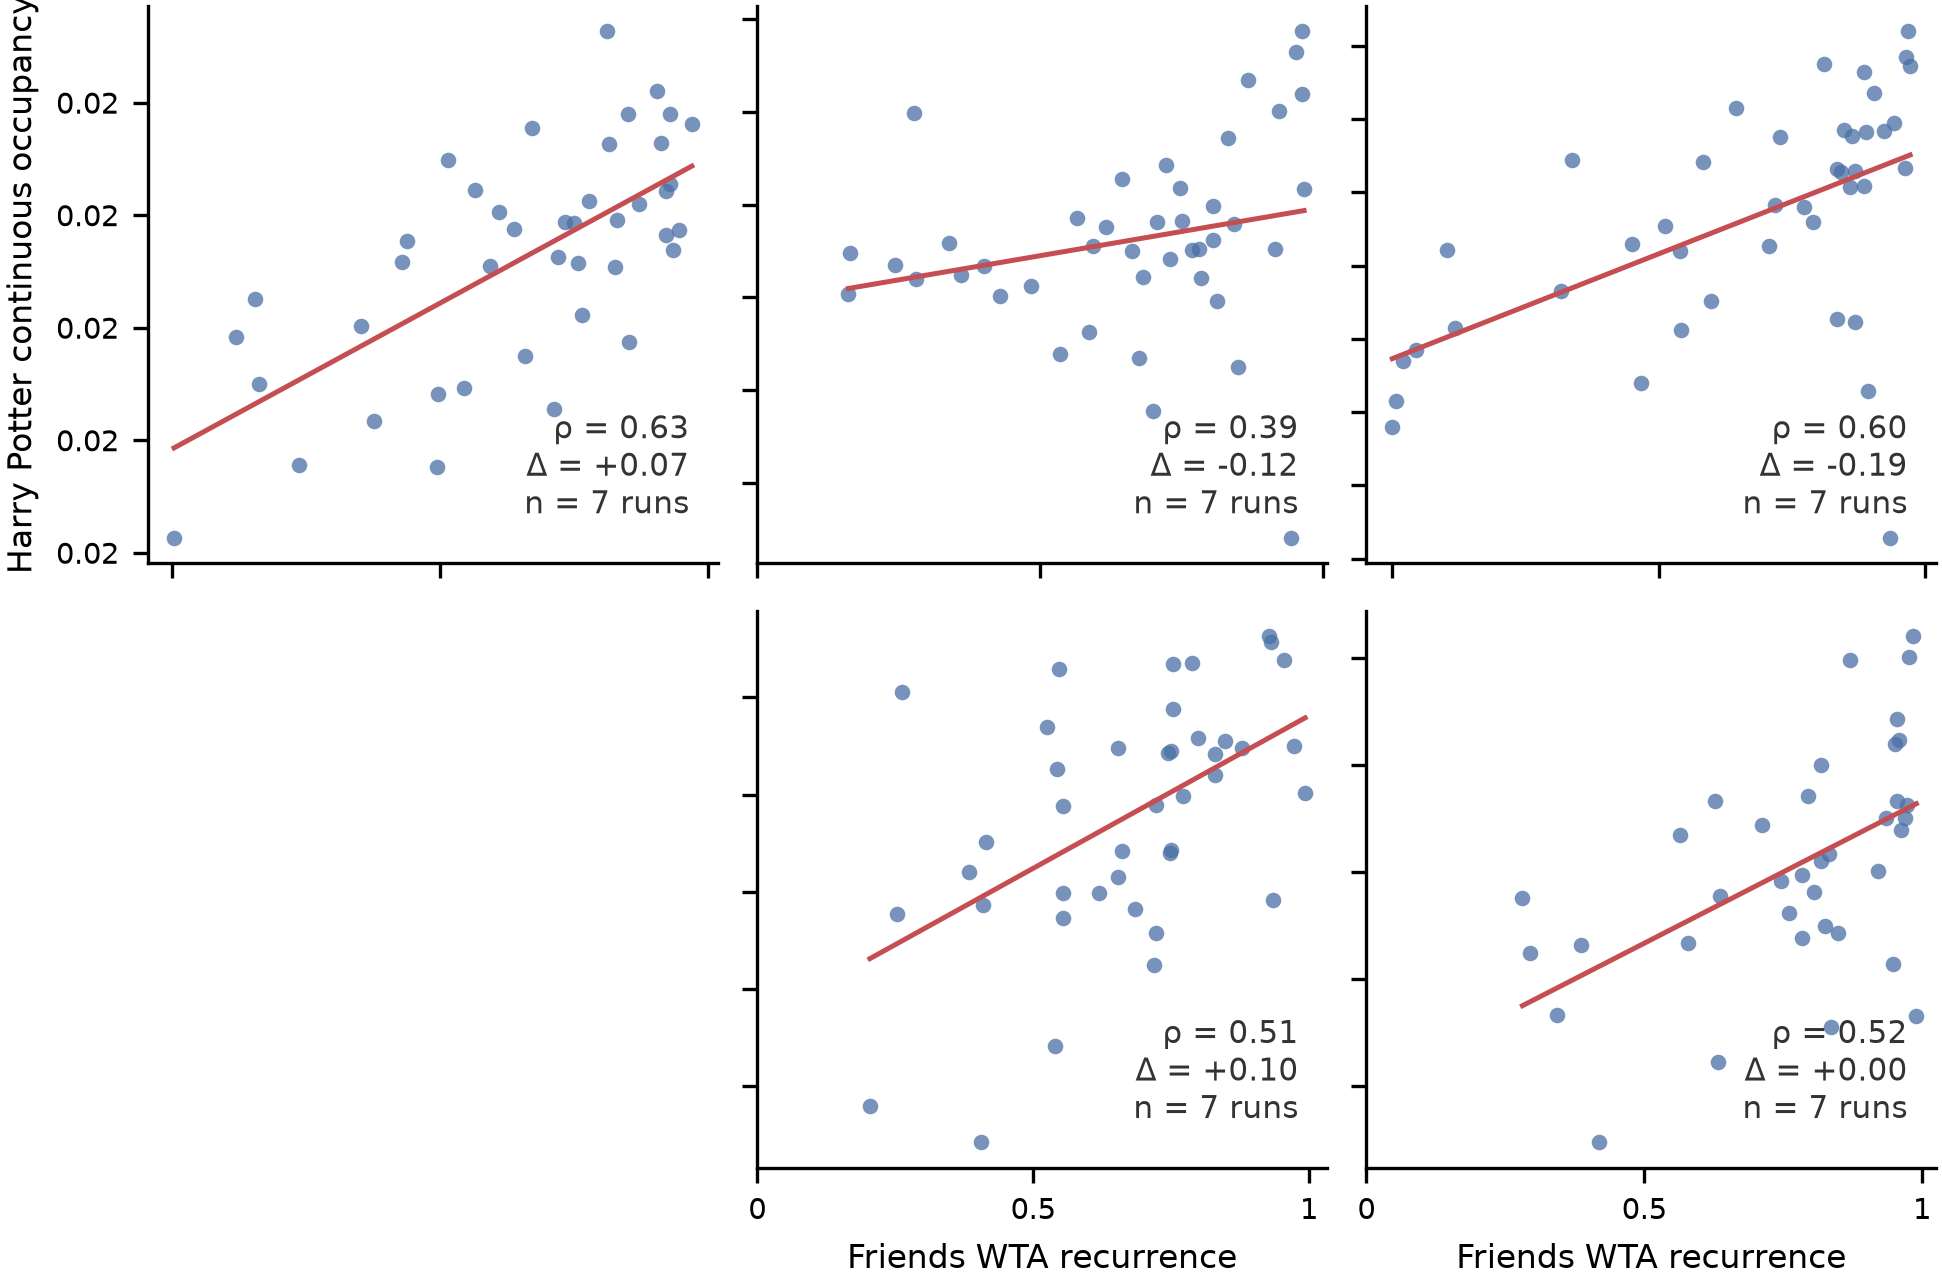
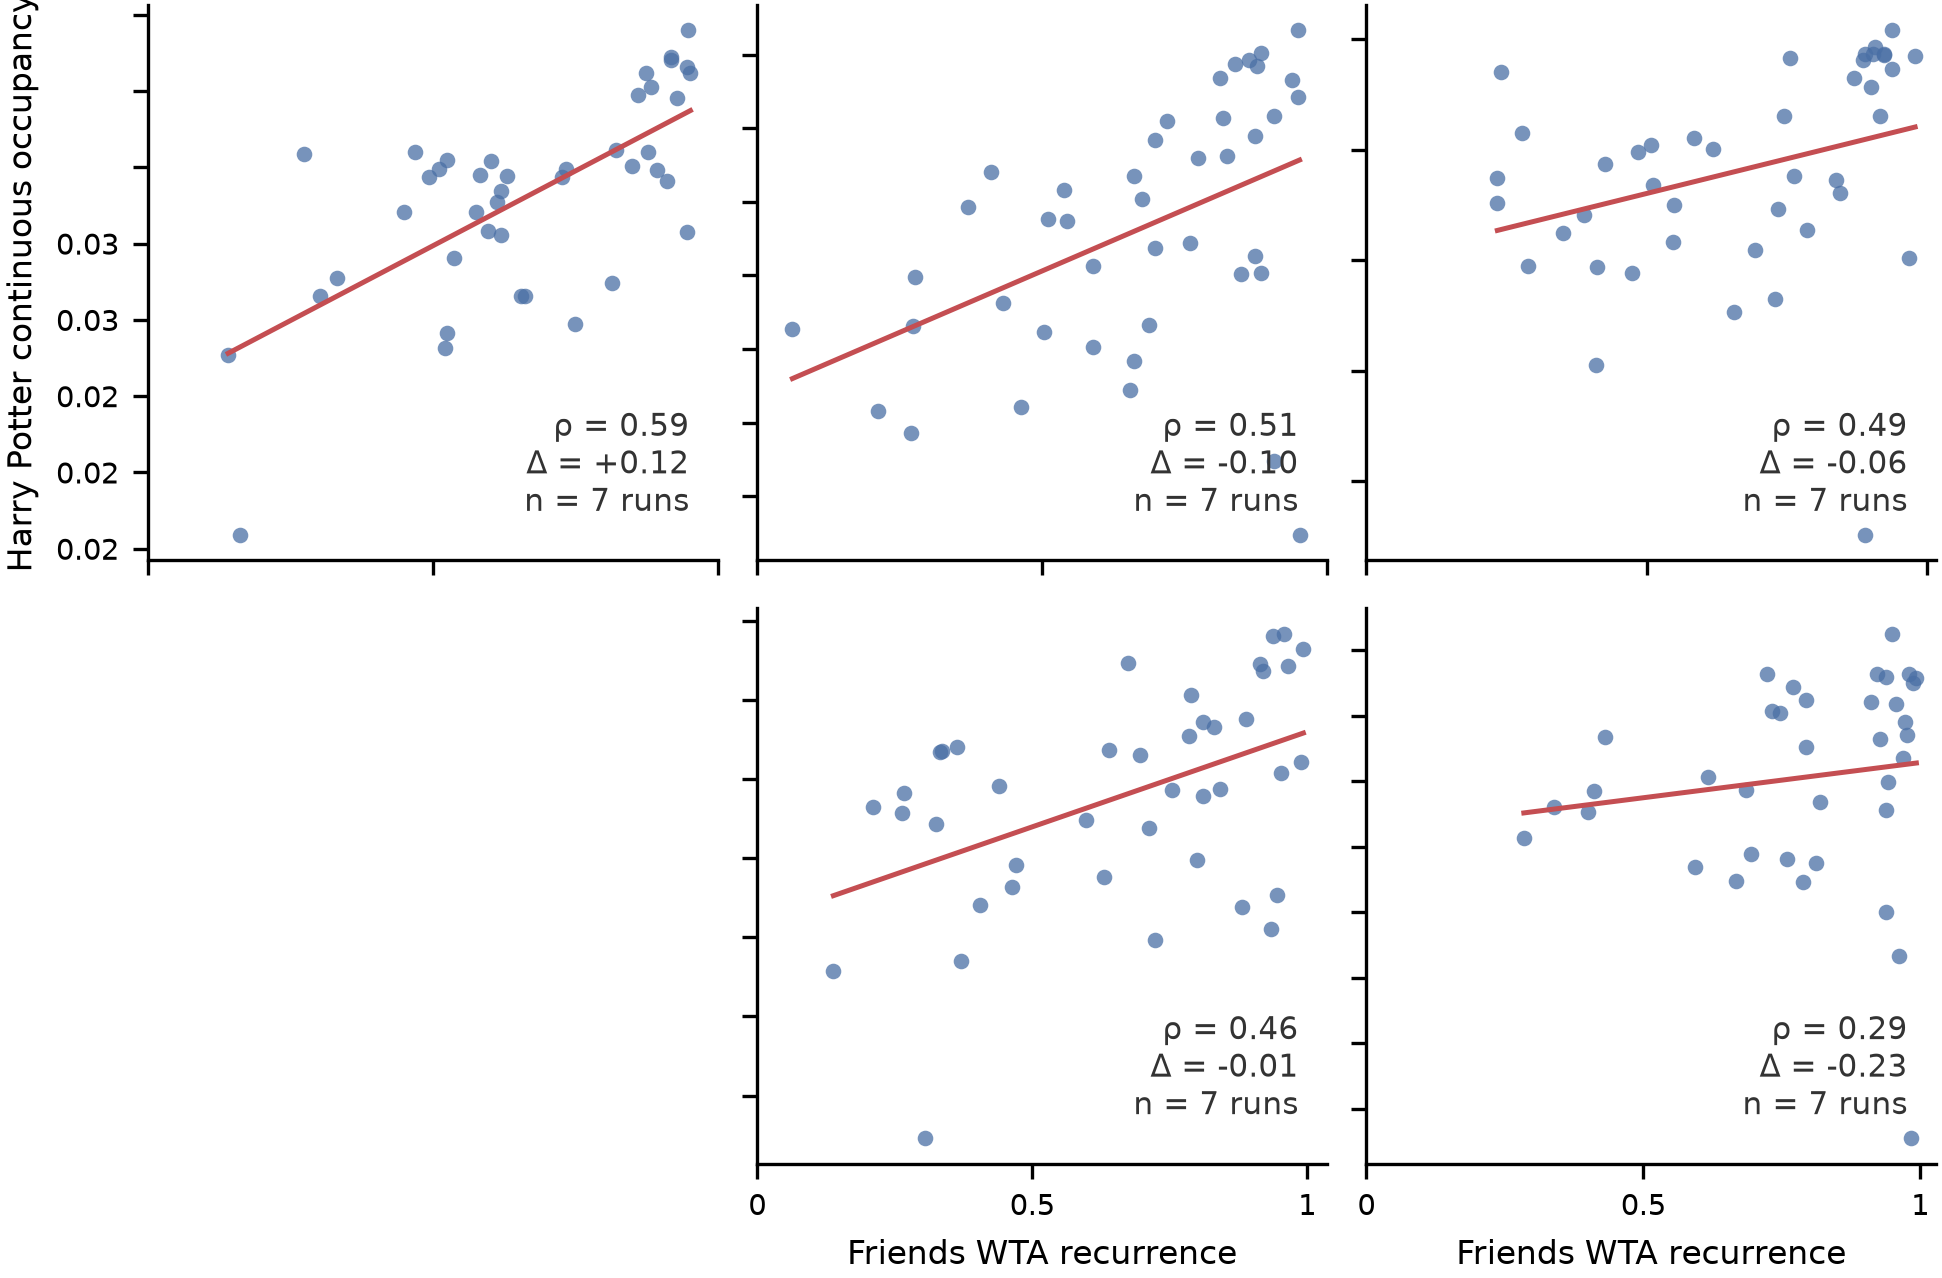
docs(si): S10 and S12 from the top-K ICA analysis
Figure S10 now shows how far ICA's matched spatial correlation exceeds random
rotations of the same top-K PC subspace, and its caption reports convergence
at every K with focal ICA components accounting for the near-zero matches.
Figure S12 panels are re-rendered from the OOS recurrence through the top-K
maps, and the caption's ICA recurrence range and continuous-arm sentence are
updated. The S10 Panel B alt text now describes ICA-HMM matches.

diff --git a/docs/supplementary/README.md b/docs/supplementary/README.md
@@ -159,14 +159,14 @@ This assembled strip summarizes subject-level variation across multiple analyses
 ## Figure S10 — ICA convergence diagnostics
 
 **Panel A — K-sweep heatmap**
-![Heatmap of ICA convergence metrics across component counts (K) tested in the sweep](figures/S10_ica_convergence_A.png)
+![Heatmap of how far ICA–HMM spatial matches exceed the rotation null, per subject and ICA component count K, with surviving pair counts](figures/S10_ica_convergence_A.png)
 
 **Panel B — Per-state matched absolute correlation**
-![Absolute correlation between matched ICA components across repeated runs, shown per state](figures/S10_ica_convergence_B.png)
+![Absolute spatial correlation between each HMM state-mean map and its matched ICA map, per subject, with the per-subject median and rotation-null mean](figures/S10_ica_convergence_B.png)
 
-These panels test how far an alternative decomposition with different assumptions recovers the HMM state-mean maps. That alternative is independent component analysis (ICA), which maximizes spatial independence and imposes no temporal model. Panel A shows the fraction of FDR-surviving spatially matched ICA–HMM pairs (content-eligible states) across six subjects as a function of the number of ICA components K. Per-pair significance is tested against a **subspace-rotation null**: random orthonormal K-frames drawn in the same whitened vt = 0.95 subspace, with Hungarian matching re-run per draw (1,000 draws, BH-FDR corrected). Panel B shows the per-state matched absolute correlation (|r|) between ICA consensus maps and HMM state-mean maps at each subject's K_used, with states coloured by HMM taxonomy category. Detailed numerical results are in the findings document on the `supplements` branch (linked in the catalogue table above).
+These panels test how far an alternative decomposition with different assumptions recovers the HMM state-mean maps. That alternative is independent component analysis (ICA), which maximizes spatial independence and imposes no temporal model. At each dimensionality K, ICA is fit within the subspace of the top K principal components. Per-pair significance is tested against a **subspace-rotation null**: random rotations of the same top-K basis, with Hungarian matching re-run per draw (1,000 draws, BH-FDR corrected). Panel A shows, for content-eligible states, how far the median matched absolute correlation (|r|) exceeds the null mean, with the number of FDR-surviving pairs in each cell, for six subjects and each K. Panel B shows the per-state matched |r| at each subject's K_used (the fitted model's occupied-state count, 37–42), coloured by HMM taxonomy category, with the per-subject median (solid) and null mean (dashed). Detailed numerical results are in the findings document on the `supplements` branch (linked in the catalogue table above).
 
-These panels concern the shared subspace rather than individual state maps. Spatial convergence depends on granularity: it sits at or near the rotation null for coarse, HMM-independent decompositions (K = 15 is null in all six subjects, K = 25 in four of six) and emerges only as the ICA dimensionality approaches each subject's K_used (the fitted model's occupied-state count, 37–42), varying substantially across subjects. A random orthonormal rotation of the same PCA subspace already matches the HMM state-mean maps about as well as ICA's independence-maximizing rotation, so only the agreement exceeding that null is informative. Matches to low-confidence, unused, or rare states indicate that those states' mean maps are recoverable within the shared subspace. They are not independent biological or content validation.
+Most of the agreement between the two decompositions comes from the subspace they share: HMM state means lie almost entirely in the leading principal components, so even random rotations of that subspace match them well. Beyond that, ICA's rotation exceeds the null in every subject at every K, including K = 15, which is chosen independently of the HMM. The excess is +0.02 to +0.12 in median |r| and does not grow as K approaches the HMM's state count. At K_used, 7–11 ICA components per subject are focal, near-single-parcel sources with no HMM counterpart. These produce the near-zero matches in Panel B, while every HMM state has some ICA map with |r| ≥ 0.30. An independent decomposition therefore converges on the HMM's spatial axes beyond chance but does not reproduce its repertoire state by state. Matches to low-confidence, unused, or rare states indicate that those states' mean maps are recoverable within the shared subspace. They are not independent biological or content validation.
 
 ---
 
@@ -200,7 +200,7 @@ This figure shows how recurring brain states distribute their activation energy 
 
 These six panels repeat the out-of-stimulus recurrence test using an ICA-based alternative decomposition in place of the HMM used in the main analysis. Each panel pair presents winner-take-all (hard) and continuous (soft) assignment variants for one held-out stimulus. The three stimuli (Movie10, Harry Potter, and Petit Prince) match those used in the main cross-stimulus recurrence analysis. Detailed numerical results are in the findings document on the `supplements` branch (linked in the catalogue table above).
 
-Two caveats attach to these panels. First, the ICA recurrence score is not on the same footing as the HMM recurrence score used in the main analysis: winner-take-all labelling imposes no dwell structure, so nearly every component exceeds the 2% per-run activity threshold in nearly every run. ICA component recurrence is correspondingly compressed toward the ceiling (per-subject median 0.71–0.82, with 20% of components above 0.9) relative to HMM state recurrence (per-subject median 0.45–0.51, with 3 of 269 states above 0.9). The two distributions are both continuous and broadly graded, but they are not interchangeable, so the ICA panels are not evidence that the main recurrence gradient reproduces under ICA. Second, the continuous-assignment panels are reported for completeness only: against the phase-randomized null the continuous-arm residual is near zero or negative, so that arm carries no reliable stimulus-specific signal and does not corroborate the winner-take-all result.
+Two caveats attach to these panels. First, the ICA recurrence score is not on the same footing as the HMM recurrence score used in the main analysis: winner-take-all labelling imposes no dwell structure, so nearly every component exceeds the 2% per-run activity threshold in nearly every run. ICA component recurrence is correspondingly compressed toward the ceiling (per-subject median 0.64–0.81, with 26% of components above 0.9) relative to HMM state recurrence (per-subject median 0.45–0.51, with 3 of 269 states above 0.9). The two distributions are both continuous and broadly graded, but they are not interchangeable, so the ICA panels are not evidence that the main recurrence gradient reproduces under ICA. Second, the continuous-assignment panels are reported for completeness only: against the phase-randomized null the continuous-arm residual is mostly near zero or negative (two of 16 subject–stimulus pairs exceed it, with no consistent pattern), so that arm carries no reliable stimulus-specific signal and does not corroborate the winner-take-all result.
 
 ---
 
